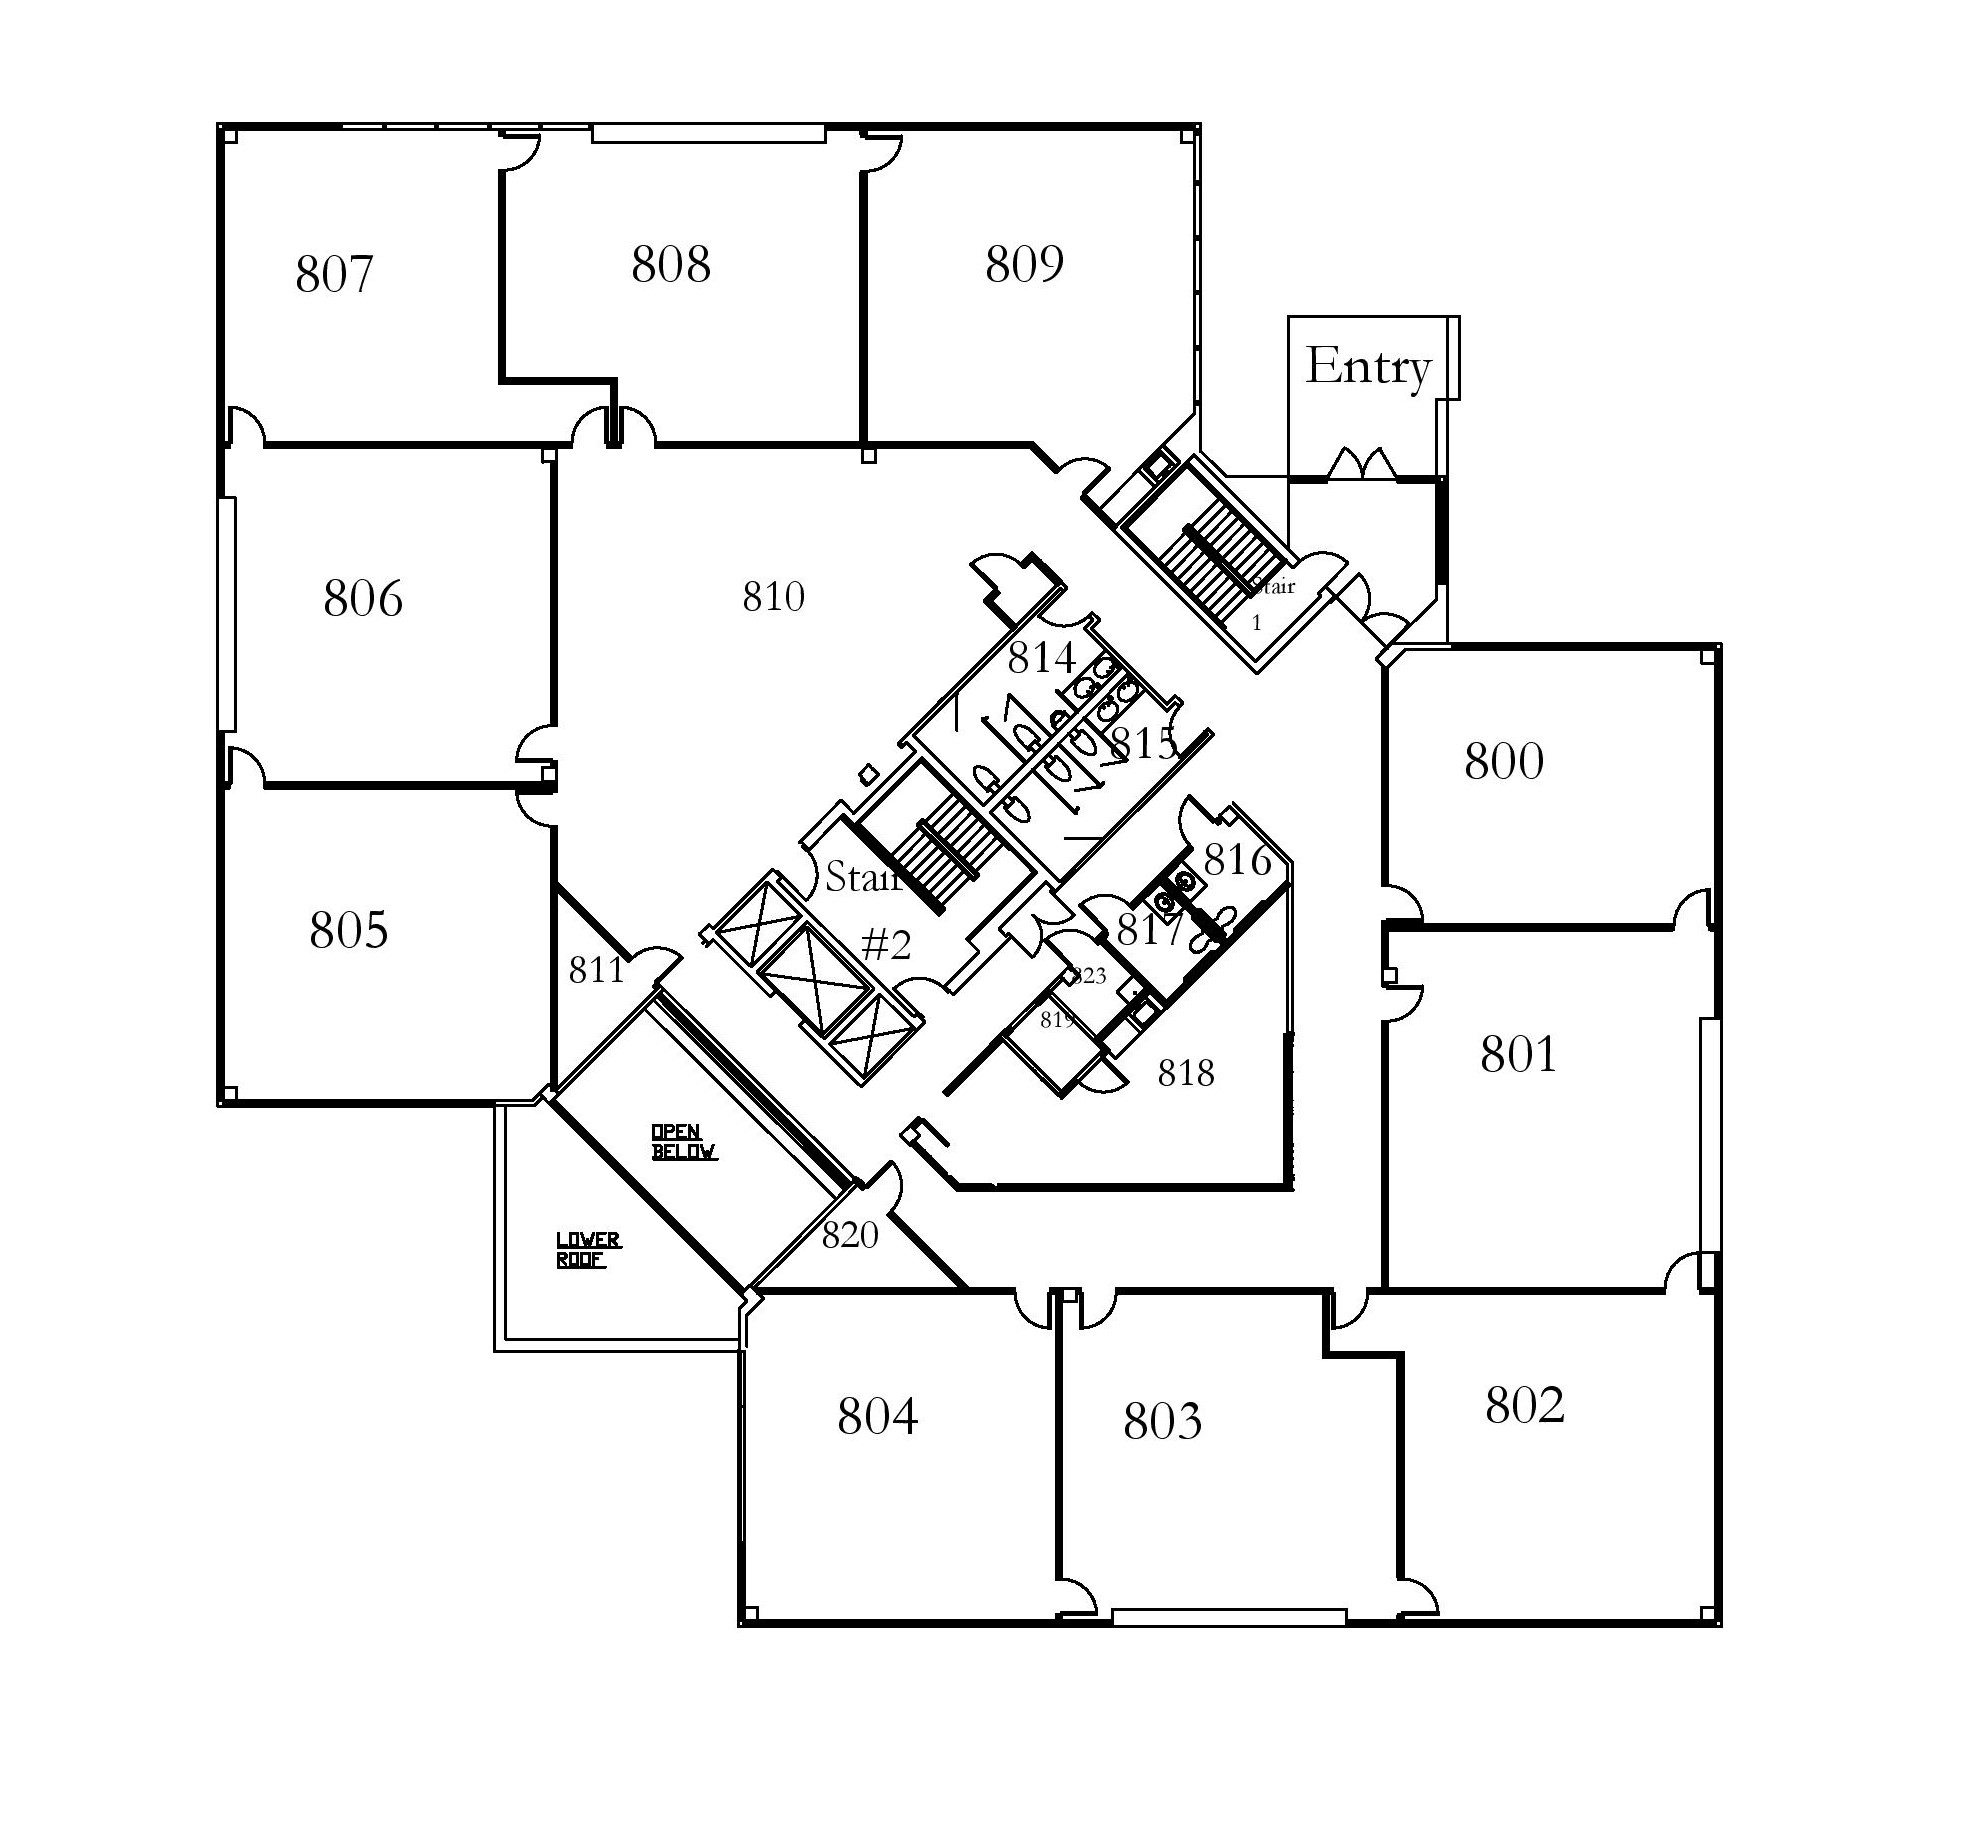
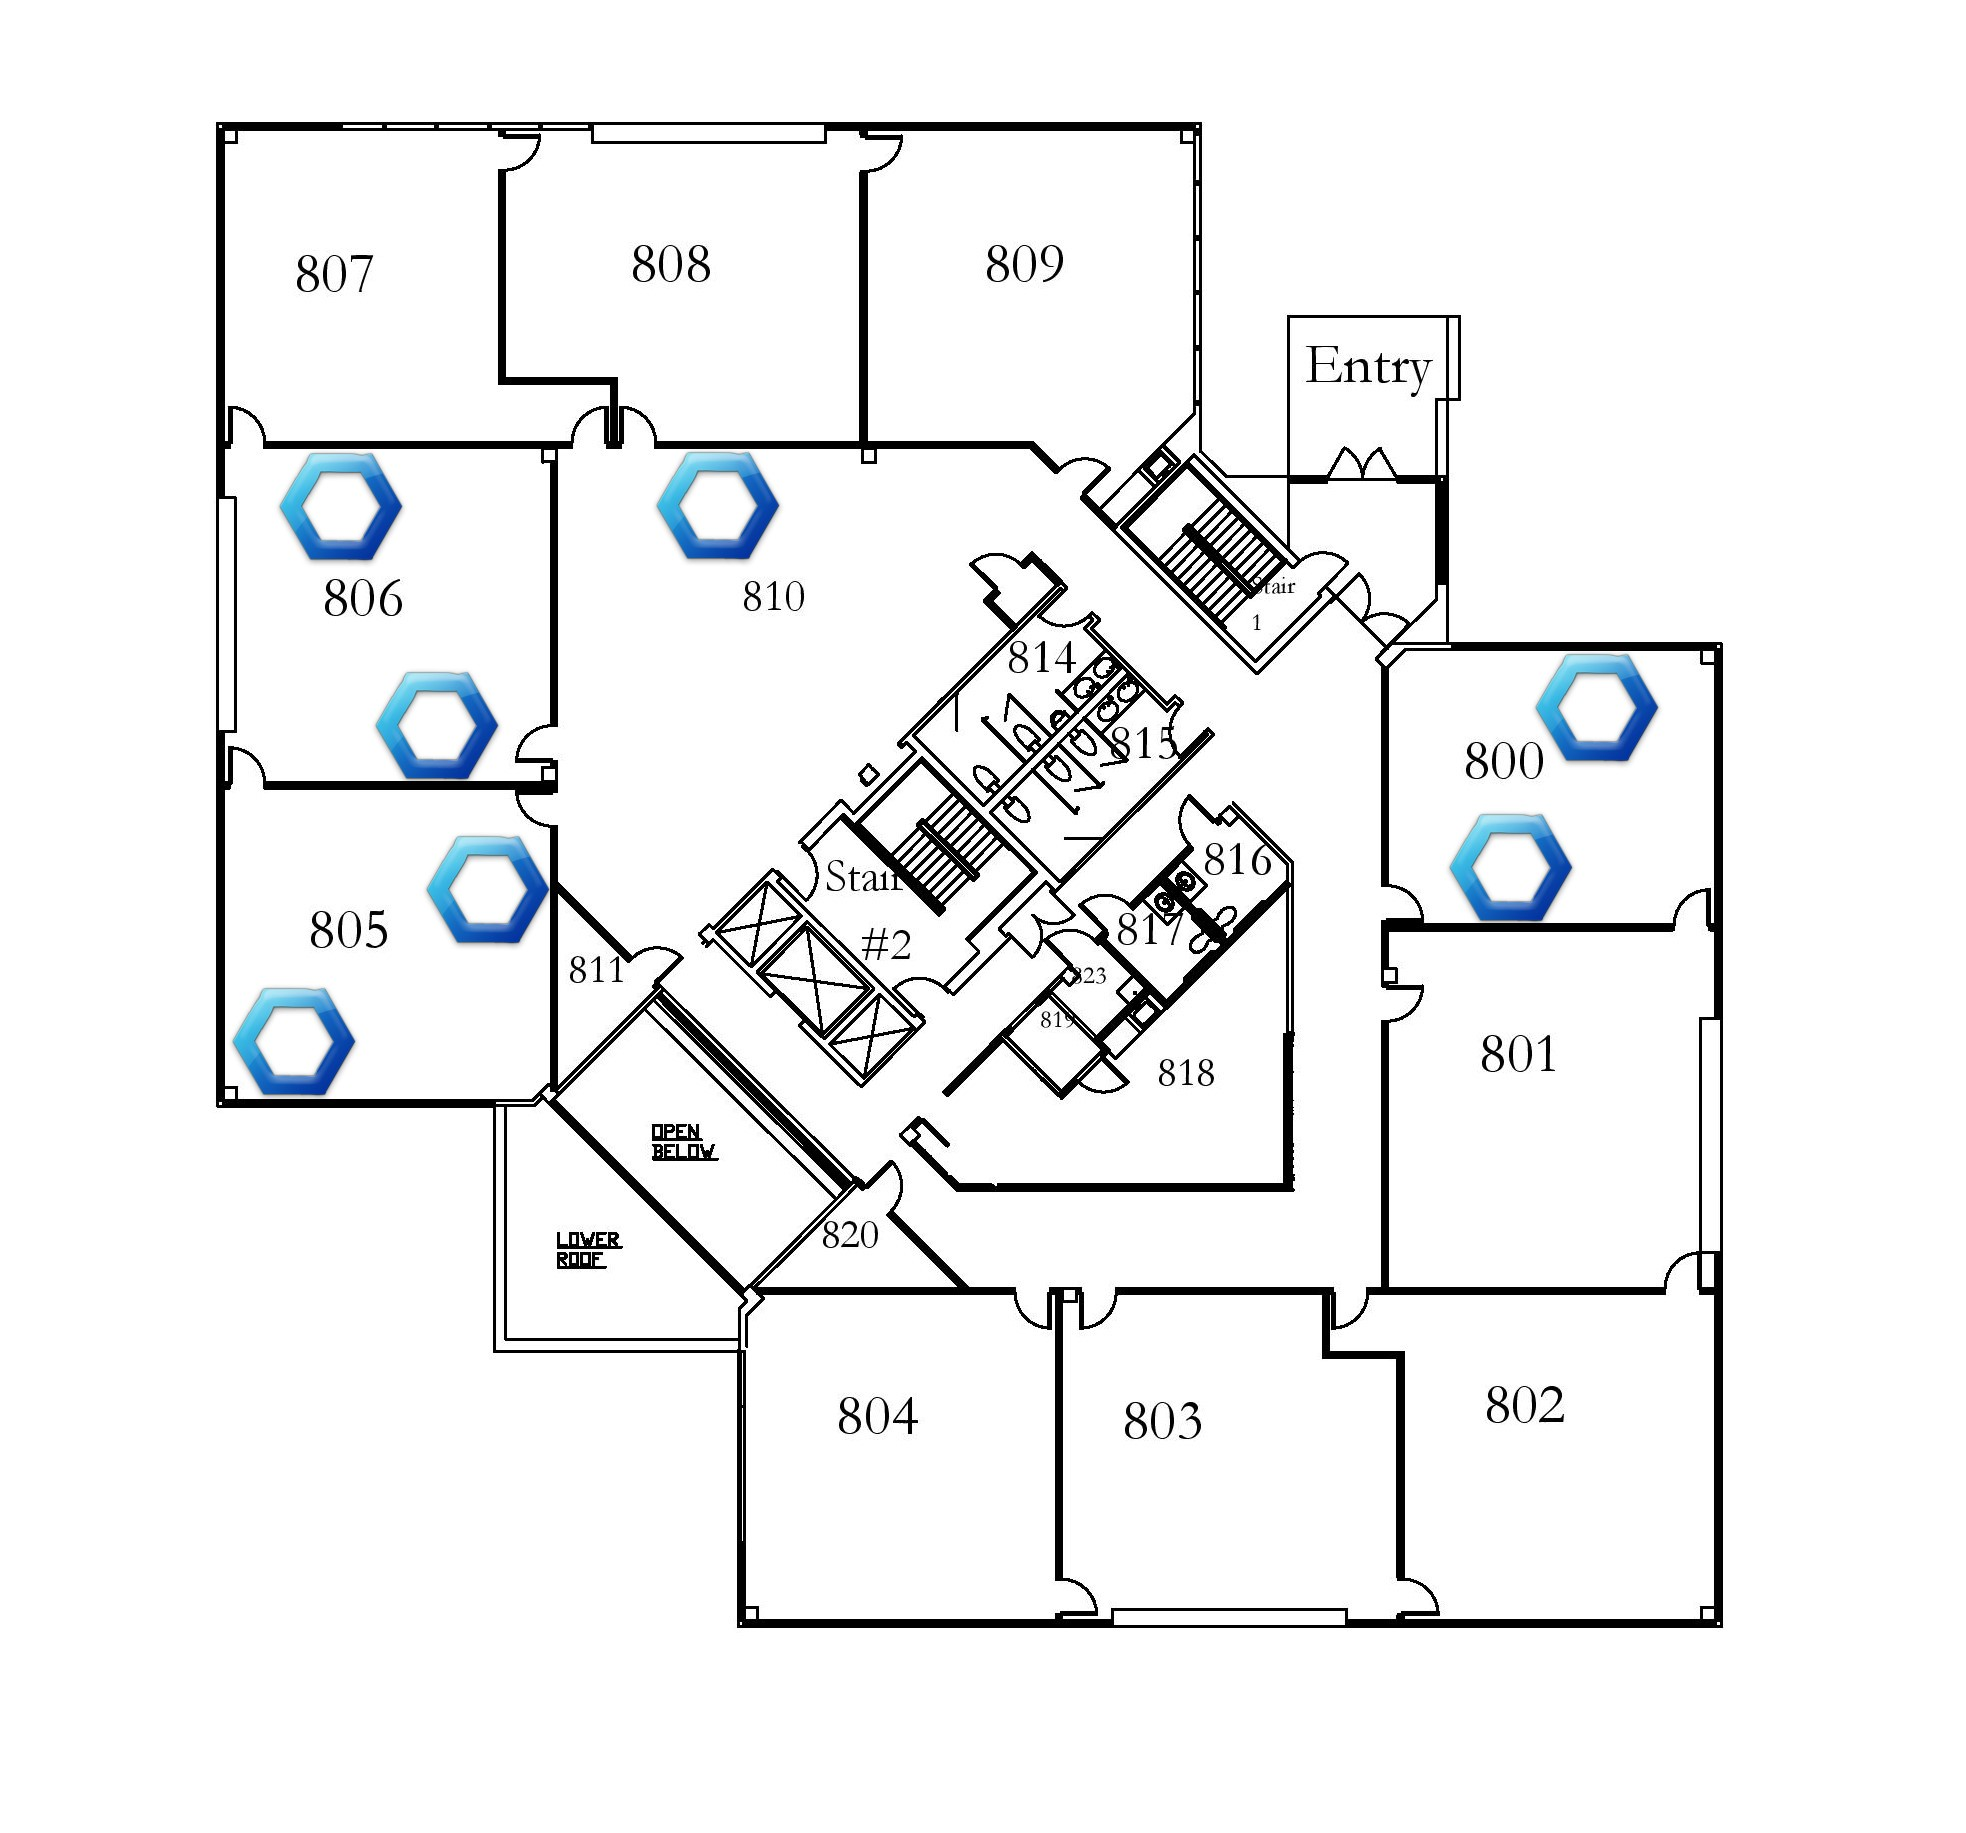
interactive image!!

diff --git a/index.html b/index.html
@@ -34,7 +34,16 @@
   <body>
     <main>
         <h1>Climate Interface</h1>
-        <img id="fplan" src="/images/fplan-actual.jpg" alt="floorplan">
+        <img id="fplan" src="/images/fplan-actual.jpg" alt="floorplan" usemap="#flrplan">
+        <map name="flrplan">
+          <area shape="circle" coords="172,249,31" alt="sense1" onclick="testFun()">
+          <area shape="circle" coords="215,357,31" alt="sense2" onclick="testFun()">
+          <area shape="circle" coords="238,435,31" alt="sense3" onclick="testFun()">
+          <area shape="circle" coords="144,511,31" alt="sense4" onclick="testFun()">
+          <area shape="circle" coords="351,249,31" alt="sense5" onclick="testFun()">
+          <area shape="circle" coords="784,347,31" alt="sense6" onclick="testFun()">
+          <area shape="circle" coords="742,425,31" alt="sense7" onclick="testFun()">
+        </map>
         <p>Select Floorplan Climate View:</p>
         <div id="climate-button">
           <label class="on"><input type="radio" name="toggle"><span>Show Overlay</span></label>
@@ -89,6 +98,12 @@
         css: "dhx_timepicker--bordered bg-grey"
       });
       timepicker.setValue([6,20,"AM"]);
+
+      //for popup on senosr
+      function testFun() {
+        alert("sensor 1 click");
+        console.log("clicked");
+      }
     </script>
 
     <script src="index.js"></script>
